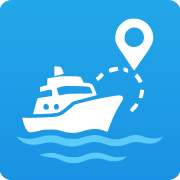
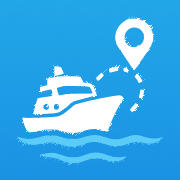
apple-touch-iconを透過なしの正方形にしてお気に入りで全面表示させる
- iOS Safariのお気に入りは、四隅が透明なtouch iconを拡大せず灰色のタイルに余白付きで置くため、四隅を背景色で塗りつぶしたRGBの180×180にする
- 実機（キャッシュのない端末）で、透過なし版だけがタイル全面に表示されることを確認
- manifestのアイコン（Android向け）は変更しない
- 透過のある画像に戻ったら落ちるテストを追加

Refs #77

diff --git a/tests/presentation/appleTouchIcon.test.ts b/tests/presentation/appleTouchIcon.test.ts
@@ -1,0 +1,23 @@
+import { readFileSync } from 'node:fs';
+import { fileURLToPath } from 'node:url';
+import { describe, expect, it } from 'vitest';
+
+const projectRoot = fileURLToPath(new URL('../../', import.meta.url));
+
+/** PNG の IHDR から幅・高さ・カラータイプを読む（カラータイプ 2 = RGB、6 = RGBA） */
+function readPngHeader(path: string) {
+    const png = readFileSync(`${projectRoot}${path}`);
+    expect(png.subarray(12, 16).toString('ascii')).toBe('IHDR');
+    return { width: png.readUInt32BE(16), height: png.readUInt32BE(20), colorType: png[25] };
+}
+
+describe('apple-touch-icon', () => {
+    // iOS Safari のお気に入りは、透過のある touch icon を拡大せず余白付きで表示する（Issue #77）
+    it.each(['public/apple-touch-icon.png', 'public/img/apple-touch-icon.png'])('%s は透過なし（RGB）の 180×180 正方形', (path) => {
+        expect(readPngHeader(path)).toEqual({ width: 180, height: 180, colorType: 2 });
+    });
+
+    it('ルート直下と img/ は同じ画像', () => {
+        expect(readFileSync(`${projectRoot}public/apple-touch-icon.png`).equals(readFileSync(`${projectRoot}public/img/apple-touch-icon.png`))).toBe(true);
+    });
+});
